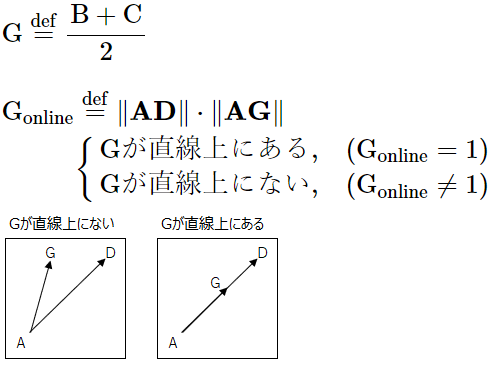
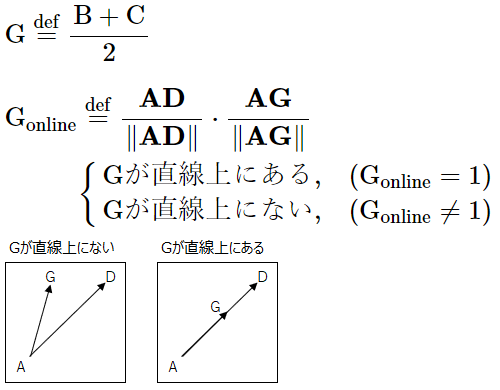
更新

diff --git a/image/間引き/4_4点間引き_パターン_3.tex b/image/間引き/4_4点間引き_パターン_3.tex
@@ -1,0 +1,10 @@
+\begin{align}
+	\rm{G} \stackrel{\mathrm{def}}{=} \frac{\rm{B}+\rm{C}}{2}
+\end{align}
+\begin{align}
+	\rm{G}_\rm{online} &\stackrel{\mathrm{def}}{=} \frac{\mathbf{AD}}{\lVert{\mathbf{AD}}\rVert} \cdot \frac{\mathbf{AG}}{\lVert{\mathbf{AG}}\rVert} \\
+	&\begin{cases}
+		\rm{G}が直線上にある, &(\rm{G}_\rm{online} = 1) \\
+		\rm{G}が直線上にない, &(\rm{G}_\rm{online} \neq 1)
+	\end{cases}
+\end{align}

diff --git a/image/間引き/2_3点間引き_パターン_3.tex b/image/間引き/2_3点間引き_パターン_3.tex
@@ -1,0 +1,7 @@
+\begin{align}
+	\rm{B}_\rm{online} &\stackrel{\mathrm{def}}{=} \frac{\mathbf{AC}}{\lVert{\mathbf{AC}}\rVert} \cdot \frac{\mathbf{AB}}{\lVert{\mathbf{AB}}\rVert} \\
+	&\begin{cases}
+		\rm{B}が直線上にある, &(\rm{B}_\rm{online} = 1) \\
+		\rm{B}が直線上にない, &(\rm{B}_\rm{online} \neq 1)
+	\end{cases}
+\end{align}
